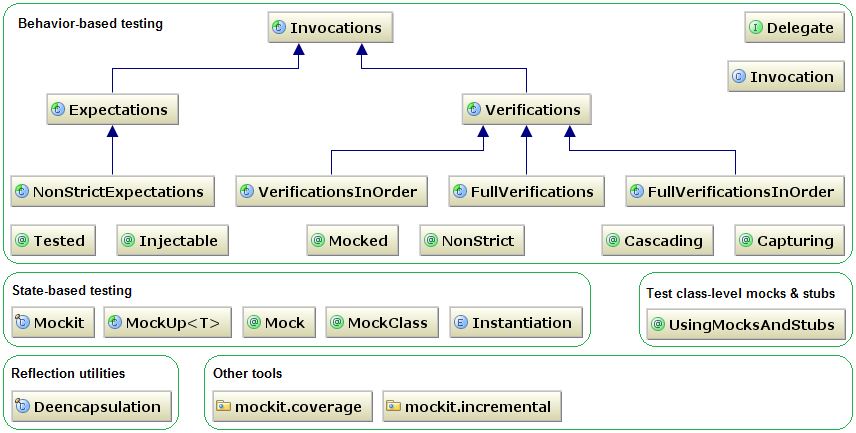
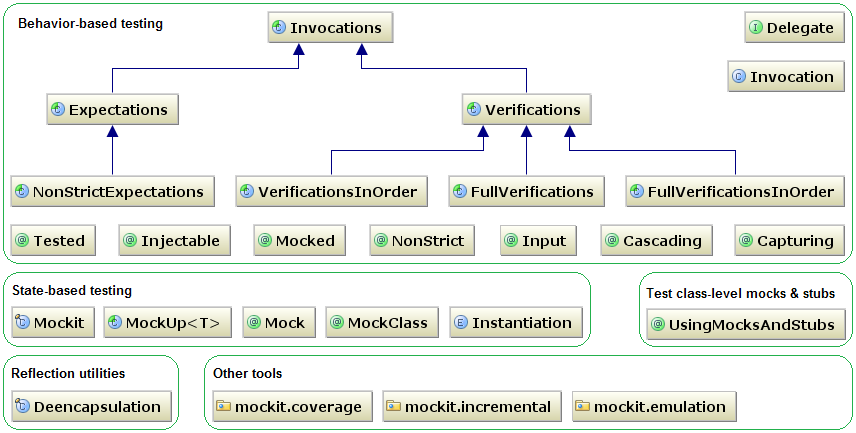
Updates API documentation and other pages with new "@Input" annotation.
git-svn-id: http://jmockit.googlecode.com/svn/trunk@1600 4d38ed0c-b8d3-11de-a71d-8f2b2e058ad8

Changed region(s): [[0.1215, 0.5104, 0.8505, 0.6005], [0.6682, 0.9007, 0.8808, 0.9908]]

diff --git a/www/javadoc/mockit/Input.html b/www/javadoc/mockit/Input.html
@@ -4,7 +4,7 @@
 <HEAD>
 <META http-equiv="Content-Type" content="text/html; charset=UTF-8">
 <TITLE>
-Injectable (JMockit Toolkit API Documentation)
+Input (JMockit Toolkit API Documentation)
 </TITLE>
 
 
@@ -14,7 +14,7 @@ Injectable (JMockit Toolkit API Documentation)
 function windowTitle()
 {
     if (location.href.indexOf('is-external=true') == -1) {
-        parent.document.title="Injectable (JMockit Toolkit API Documentation)";
+        parent.document.title="Input (JMockit Toolkit API Documentation)";
     }
 }
 </SCRIPT>
@@ -51,11 +51,11 @@ function windowTitle()
 
 <TR>
 <TD BGCOLOR="white" CLASS="NavBarCell2"><FONT SIZE="-2">
-&nbsp;<A HREF="../mockit/FullVerificationsInOrder.html" title="class in mockit"><B>PREV CLASS</B></A>&nbsp;
-&nbsp;<A HREF="../mockit/Input.html" title="annotation in mockit"><B>NEXT CLASS</B></A></FONT></TD>
+&nbsp;<A HREF="../mockit/Injectable.html" title="annotation in mockit"><B>PREV CLASS</B></A>&nbsp;
+&nbsp;<A HREF="../mockit/Instantiation.html" title="enum in mockit"><B>NEXT CLASS</B></A></FONT></TD>
 <TD BGCOLOR="white" CLASS="NavBarCell2"><FONT SIZE="-2">
-  <A HREF="../index.html?mockit/Injectable.html" target="_top"><B>FRAMES</B></A>  &nbsp;
-&nbsp;<A HREF="Injectable.html" target="_top"><B>NO FRAMES</B></A>  &nbsp;
+  <A HREF="../index.html?mockit/Input.html" target="_top"><B>FRAMES</B></A>  &nbsp;
+&nbsp;<A HREF="Input.html" target="_top"><B>NO FRAMES</B></A>  &nbsp;
 &nbsp;<SCRIPT type="text/javascript">
   <!--
   if(window==top) {
@@ -86,31 +86,22 @@ DETAIL:&nbsp;ELEMENT</FONT></TD>
 <FONT SIZE="-1">
 mockit</FONT>
 <BR>
-Annotation Type Injectable</H2>
+Annotation Type Input</H2>
 <HR>
 <DL>
-<DT><PRE><FONT SIZE="-1"><A HREF="http://download.oracle.com/javase/6/docs/api/java/lang/annotation/Documented.html?is-external=true" title="class or interface in java.lang.annotation">@Documented</A>
-<A HREF="http://download.oracle.com/javase/6/docs/api/java/lang/annotation/Retention.html?is-external=true" title="class or interface in java.lang.annotation">@Retention</A>(<A HREF="http://download.oracle.com/javase/6/docs/api/java/lang/annotation/Retention.html?is-external=true#value()" title="class or interface in java.lang.annotation">value</A>=<A HREF="http://download.oracle.com/javase/6/docs/api/java/lang/annotation/RetentionPolicy.html?is-external=true#RUNTIME" title="class or interface in java.lang.annotation">RUNTIME</A>)
-<A HREF="http://download.oracle.com/javase/6/docs/api/java/lang/annotation/Target.html?is-external=true" title="class or interface in java.lang.annotation">@Target</A>(<A HREF="http://download.oracle.com/javase/6/docs/api/java/lang/annotation/Target.html?is-external=true#value()" title="class or interface in java.lang.annotation">value</A>={<A HREF="http://download.oracle.com/javase/6/docs/api/java/lang/annotation/ElementType.html?is-external=true#FIELD" title="class or interface in java.lang.annotation">FIELD</A>,<A HREF="http://download.oracle.com/javase/6/docs/api/java/lang/annotation/ElementType.html?is-external=true#PARAMETER" title="class or interface in java.lang.annotation">PARAMETER</A>})
-</FONT>public @interface <B>Injectable</B></DL>
+<DT><PRE><FONT SIZE="-1"><A HREF="http://download.oracle.com/javase/6/docs/api/java/lang/annotation/Retention.html?is-external=true" title="class or interface in java.lang.annotation">@Retention</A>(<A HREF="http://download.oracle.com/javase/6/docs/api/java/lang/annotation/Retention.html?is-external=true#value()" title="class or interface in java.lang.annotation">value</A>=<A HREF="http://download.oracle.com/javase/6/docs/api/java/lang/annotation/RetentionPolicy.html?is-external=true#RUNTIME" title="class or interface in java.lang.annotation">RUNTIME</A>)
+<A HREF="http://download.oracle.com/javase/6/docs/api/java/lang/annotation/Target.html?is-external=true" title="class or interface in java.lang.annotation">@Target</A>(<A HREF="http://download.oracle.com/javase/6/docs/api/java/lang/annotation/Target.html?is-external=true#value()" title="class or interface in java.lang.annotation">value</A>=<A HREF="http://download.oracle.com/javase/6/docs/api/java/lang/annotation/ElementType.html?is-external=true#FIELD" title="class or interface in java.lang.annotation">FIELD</A>)
+</FONT>public @interface <B>Input</B></DL>
 </PRE>
 
 <P>
-Indicates an instance field of the test class or a parameter of the test method whose value will be an <em>injectable
- mocked instance</em>.
- Such instances can be said to be proper <em>mock objects</em>, in contrast to the <em>mocked instances</em> of a
- regular mocked type.
- The intent is that these mock objects will be passed/injected into the tested object/unit.
+Indicates an instance field holding either a default return value for a given return type, or a checked exception
+ instance to be thrown for a given checked exception type.
+ If the field is not explicitly assigned a value, then one will be created and assigned automatically, provided the
+ declared type of the field is a class having a public no-args constructor.
  <p/>
- The use of this annotation implies that the declared type of the mock field/parameter is a mocked type, just like it
- would be if annotated with <A HREF="../mockit/Mocked.html" title="annotation in mockit">@Mocked</A>.
- The <code>@Mocked</code> annotation can be applied at the same time, if needed.
- The default mocking behavior, however, is different in several ways.
- <p/>
- For the duration of each test where the mock field/parameter is in scope, <em>only one</em> injectable instance is
- mocked; other instances of the same mocked type are not affected.
- For an injectable mocked <em>class</em>, <em>static methods</em> and <em>constructors</em> are <em>not</em> mocked;
- only instance methods are. The static initializers of said classes are <em>not</em> stubbed out by default.
+ This annotation is only relevant inside expectation blocks, and only applies to mocked methods/constructors for which
+ no matching expectation is recorded.
 <P>
 
 <P>
@@ -146,11 +137,11 @@ Indicates an instance field of the test class or a parameter of the test method 
 
 <TR>
 <TD BGCOLOR="white" CLASS="NavBarCell2"><FONT SIZE="-2">
-&nbsp;<A HREF="../mockit/FullVerificationsInOrder.html" title="class in mockit"><B>PREV CLASS</B></A>&nbsp;
-&nbsp;<A HREF="../mockit/Input.html" title="annotation in mockit"><B>NEXT CLASS</B></A></FONT></TD>
+&nbsp;<A HREF="../mockit/Injectable.html" title="annotation in mockit"><B>PREV CLASS</B></A>&nbsp;
+&nbsp;<A HREF="../mockit/Instantiation.html" title="enum in mockit"><B>NEXT CLASS</B></A></FONT></TD>
 <TD BGCOLOR="white" CLASS="NavBarCell2"><FONT SIZE="-2">
-  <A HREF="../index.html?mockit/Injectable.html" target="_top"><B>FRAMES</B></A>  &nbsp;
-&nbsp;<A HREF="Injectable.html" target="_top"><B>NO FRAMES</B></A>  &nbsp;
+  <A HREF="../index.html?mockit/Input.html" target="_top"><B>FRAMES</B></A>  &nbsp;
+&nbsp;<A HREF="Input.html" target="_top"><B>NO FRAMES</B></A>  &nbsp;
 &nbsp;<SCRIPT type="text/javascript">
   <!--
   if(window==top) {

diff --git a/www/javadoc/mockit/Invocation.html b/www/javadoc/mockit/Invocation.html
@@ -99,8 +99,8 @@ Class Invocation</H2>
 <P>
 A context object representing the current invocation to a mocked method or constructor.
  <p/>
- When used as the type of the first parameter on a <A HREF="../mockit/Delegate.html" title="interface in mockit"><CODE>Delegate</CODE></A> method, all invocations to the
- delegate method will receive an appropriate instance.
+ When used as the type of the first parameter on a <A HREF="../mockit/Delegate.html" title="interface in mockit"><CODE>Delegate</CODE></A> method, all invocations to the delegate method
+ will receive an appropriate instance.
  Similarly, it can be used in the handler method of an instance assigned to the
  forEachInvocation field.
  <p/>
@@ -161,12 +161,19 @@ A context object representing the current invocation to a mocked method or const
 </TR>
 <TR BGCOLOR="white" CLASS="TableRowColor">
 <TD ALIGN="right" VALIGN="top" WIDTH="1%"><FONT SIZE="-1">
-<CODE>&nbsp;<A HREF="http://download.oracle.com/javase/6/docs/api/java/lang/Object.html?is-external=true" title="class or interface in java.lang">Object</A></CODE></FONT></TD>
+<CODE>
+<TABLE BORDER="0" CELLPADDING="0" CELLSPACING="0" SUMMARY="">
+<TR ALIGN="right" VALIGN="">
+<TD NOWRAP><FONT SIZE="-1">
+<CODE>&lt;T&gt; T</CODE></FONT></TD>
+</TR>
+</TABLE>
+</CODE></FONT></TD>
 <TD><CODE><B><A HREF="../mockit/Invocation.html#getInvokedInstance()">getInvokedInstance</A></B>()</CODE>
 
 <BR>
-&nbsp;&nbsp;&nbsp;&nbsp;&nbsp;&nbsp;&nbsp;&nbsp;&nbsp;&nbsp;Returns the target instance on which the current invocation was made, if any (if the method
- invoked is <code>static</code> then there is no instance and null is returned).</TD>
+&nbsp;&nbsp;&nbsp;&nbsp;&nbsp;&nbsp;&nbsp;&nbsp;&nbsp;&nbsp;Returns the target instance on which the current invocation was made, if any (if the method invoked is
+ <code>static</code> then there is no instance and null is returned).</TD>
 </TR>
 <TR BGCOLOR="white" CLASS="TableRowColor">
 <TD ALIGN="right" VALIGN="top" WIDTH="1%"><FONT SIZE="-1">
@@ -275,14 +282,13 @@ public final int <B>getInvocationIndex</B>()</PRE>
 <A NAME="getInvokedInstance()"><!-- --></A><H3>
 getInvokedInstance</H3>
 <PRE>
-public final <A HREF="http://download.oracle.com/javase/6/docs/api/java/lang/Object.html?is-external=true" title="class or interface in java.lang">Object</A> <B>getInvokedInstance</B>()</PRE>
+public final &lt;T&gt; T <B>getInvokedInstance</B>()</PRE>
 <DL>
-<DD>Returns the target instance on which the current invocation was made, if any (if the method
- invoked is <code>static</code> then there is no instance and null is returned).
+<DD>Returns the target instance on which the current invocation was made, if any (if the method invoked is
+ <code>static</code> then there is no instance and null is returned).
  <p/>
- Note that this instance can either be a mock instance (for example, the instance automatically
- created by JMockit and assigned to a mock field or passed as the argument value for a mock
- parameter), or a "real" instance created by code under test for a mocked type.
+ Note that this instance can either be the mocked instance originally created by JMockit and assigned to a mock
+ field or passed as a mock parameter, or an instance created by the code under test.
 <P>
 <DD><DL>
 </DL>
@@ -297,8 +303,8 @@ public final int <B>getMaxInvocations</B>()</PRE>
 <DL>
 <DD>Returns the maximum invocation count for the current expectation (-1 indicates unlimited).
  <p/>
- This call will return the value specified through the <CODE>Invocations.times</CODE> or
- <CODE>Invocations.maxTimes</CODE> field, if that was the case.
+ This call will return the value specified through the <CODE>Invocations.times</CODE> or <CODE>Invocations.maxTimes</CODE>
+ field, if that was the case.
 <P>
 <DD><DL>
 </DL>
@@ -313,8 +319,8 @@ public final int <B>getMinInvocations</B>()</PRE>
 <DL>
 <DD>Returns the minimum invocation count for the current expectation.
  <p/>
- This call will return the value specified through the <CODE>Invocations.times</CODE> or
- <CODE>Invocations.minTimes</CODE> field, if that was the case.
+ This call will return the value specified through the <CODE>Invocations.times</CODE> or <CODE>Invocations.minTimes</CODE>
+ field, if that was the case.
 <P>
 <DD><DL>
 </DL>
@@ -329,8 +335,8 @@ public final void <B>setMaxInvocations</B>(int&nbsp;maxInvocations)</PRE>
 <DL>
 <DD>Sets the maximum invocation count for the current expectation.
  <p/>
- This call can be used to override the value set on the <CODE>Invocations.times</CODE> or
- <CODE>Invocations.maxTimes</CODE> field.
+ This call can be used to override the value set on the <CODE>Invocations.times</CODE> or <CODE>Invocations.maxTimes</CODE>
+ field.
 <P>
 <DD><DL>
 </DL>
@@ -345,8 +351,8 @@ public final void <B>setMinInvocations</B>(int&nbsp;minInvocations)</PRE>
 <DL>
 <DD>Sets the minimum invocation count for the current expectation.
  <p/>
- This call can be used to override the value set on the <CODE>Invocations.times</CODE> or
- <CODE>Invocations.minTimes</CODE> field.
+ This call can be used to override the value set on the <CODE>Invocations.times</CODE> or <CODE>Invocations.minTimes</CODE>
+ field.
 <P>
 <DD><DL>
 </DL>

diff --git a/www/javadoc/overview-summary.html b/www/javadoc/overview-summary.html
@@ -131,13 +131,15 @@ JMockit: a Java toolkit for developer testing.
          title="A context object representing the current invocation to a mocked method or constructor.">
       <area shape="rect" coords="9,223,96,256" href="mockit/Tested.html"
          title="Indicates a class to be tested in isolation from selected dependencies.">
-      <area shape="rect" coords="115,223,229,256" href="mockit/Injectable.html"
+      <area shape="rect" coords="117,223,231,256" href="mockit/Injectable.html"
          title="Indicates an instance field of the test class or a parameter of the test method whose value will be an injectable mocked instance.">
-      <area shape="rect" coords="305,223,399,256" href="mockit/Mocked.html"
+      <area shape="rect" coords="252,223,346,256" href="mockit/Mocked.html"
          title="Indicates an instance field or test method parameter whose value will be a mocked instance.">
-      <area shape="rect" coords="418,223,525,256" href="mockit/NonStrict.html"
+      <area shape="rect" coords="368,223,475,256" href="mockit/NonStrict.html"
          title="For tests using Expectations, indicates a non-strict mocked type for an instance field or test method parameter.">
-      <area shape="rect" coords="600,223,714,256" href="mockit/Cascading.html"
+      <area shape="rect" coords="499,223,577,256" href="mockit/Input.html"
+         title="Indicates an instance field holding either a default return value for a given return type, or a checked exception instance to be thrown for a given checked exception type.">
+      <area shape="rect" coords="599,223,713,256" href="mockit/Cascading.html"
          title="Indicates a mocked type where the return types of non-void methods, excluding primitives, String, and collection types, will be mocked automatically if and when an invocation to the method occurs.">
       <area shape="rect" coords="733,223,845,256" href="mockit/Capturing.html"
          title="Indicates a test class, an instance field declared in a test class, or a test method parameter which will capture all implementations of a given base type (usually an interface or abstract class).">
@@ -149,7 +151,7 @@ JMockit: a Java toolkit for developer testing.
          title="A mock-up for a class or interface, to be used in state-based tests.">
       <area shape="rect" coords="241,305,316,338" href="mockit/Mock.html"
          title="Used inside a mock class to indicate a mock method or mock constructor, with optional expectations on the number of invocations while the mock is in effect.">
-      <area shape="rect" coords="324,305,409,338" href="mockit/MockClass.html"
+      <area shape="rect" coords="324,305,439,338" href="mockit/MockClass.html"
          title="Indicates a mock class containing one or more mock methods/constructors, each one of them properly indicated as such.">
       <area shape="rect" coords="448,305,583,338" href="mockit/Instantiation.html"
          title="Defines the lifetime of the instances automatically created for a mock class.">

diff --git a/www/javadoc/overview.html b/www/javadoc/overview.html
@@ -30,13 +30,15 @@
          title="A context object representing the current invocation to a mocked method or constructor.">
       <area shape="rect" coords="9,223,96,256" href="mockit/Tested.html"
          title="Indicates a class to be tested in isolation from selected dependencies.">
-      <area shape="rect" coords="115,223,229,256" href="mockit/Injectable.html"
+      <area shape="rect" coords="117,223,231,256" href="mockit/Injectable.html"
          title="Indicates an instance field of the test class or a parameter of the test method whose value will be an injectable mocked instance.">
-      <area shape="rect" coords="305,223,399,256" href="mockit/Mocked.html"
+      <area shape="rect" coords="252,223,346,256" href="mockit/Mocked.html"
          title="Indicates an instance field or test method parameter whose value will be a mocked instance.">
-      <area shape="rect" coords="418,223,525,256" href="mockit/NonStrict.html"
+      <area shape="rect" coords="368,223,475,256" href="mockit/NonStrict.html"
          title="For tests using Expectations, indicates a non-strict mocked type for an instance field or test method parameter.">
-      <area shape="rect" coords="600,223,714,256" href="mockit/Cascading.html"
+      <area shape="rect" coords="499,223,577,256" href="mockit/Input.html"
+         title="Indicates an instance field holding either a default return value for a given return type, or a checked exception instance to be thrown for a given checked exception type.">
+      <area shape="rect" coords="599,223,713,256" href="mockit/Cascading.html"
          title="Indicates a mocked type where the return types of non-void methods, excluding primitives, String, and collection types, will be mocked automatically if and when an invocation to the method occurs.">
       <area shape="rect" coords="733,223,845,256" href="mockit/Capturing.html"
          title="Indicates a test class, an instance field declared in a test class, or a test method parameter which will capture all implementations of a given base type (usually an interface or abstract class).">
@@ -48,7 +50,7 @@
          title="A mock-up for a class or interface, to be used in state-based tests.">
       <area shape="rect" coords="241,305,316,338" href="mockit/Mock.html"
          title="Used inside a mock class to indicate a mock method or mock constructor, with optional expectations on the number of invocations while the mock is in effect.">
-      <area shape="rect" coords="324,305,409,338" href="mockit/MockClass.html"
+      <area shape="rect" coords="324,305,439,338" href="mockit/MockClass.html"
          title="Indicates a mock class containing one or more mock methods/constructors, each one of them properly indicated as such.">
       <area shape="rect" coords="448,305,583,338" href="mockit/Instantiation.html"
          title="Defines the lifetime of the instances automatically created for a mock class.">

diff --git a/www/about.html b/www/about.html
@@ -54,17 +54,18 @@
       <area shape="rect" coords="743,10,845,43" href="javadoc/mockit/Delegate.html">
       <area shape="rect" coords="726,59,845,92" href="javadoc/mockit/Invocation.html">
       <area shape="rect" coords="9,223,96,256" href="javadoc/mockit/Tested.html">
-      <area shape="rect" coords="115,223,229,256" href="javadoc/mockit/Injectable.html">
-      <area shape="rect" coords="305,223,399,256" href="javadoc/mockit/Mocked.html">
-      <area shape="rect" coords="418,223,525,256" href="javadoc/mockit/NonStrict.html">
-      <area shape="rect" coords="600,223,714,256" href="javadoc/mockit/Cascading.html">
+      <area shape="rect" coords="117,223,231,256" href="javadoc/mockit/Injectable.html">
+      <area shape="rect" coords="252,223,346,256" href="javadoc/mockit/Mocked.html">
+      <area shape="rect" coords="368,223,475,256" href="javadoc/mockit/NonStrict.html">
+      <area shape="rect" coords="499,223,577,256" href="javadoc/mockit/Input.html">
+      <area shape="rect" coords="599,223,713,256" href="javadoc/mockit/Cascading.html">
       <area shape="rect" coords="733,223,845,256" href="javadoc/mockit/Capturing.html">
 
       <area shape="rect" coords="10,282,133,300" href="tutorial/StateBasedTesting.html">
       <area shape="rect" coords="10,305,95,338" href="javadoc/mockit/Mockit.html">
       <area shape="rect" coords="102,305,232,338" href="javadoc/mockit/MockUp.html">
       <area shape="rect" coords="241,305,316,338" href="javadoc/mockit/Mock.html">
-      <area shape="rect" coords="324,305,409,338" href="javadoc/mockit/MockClass.html">
+      <area shape="rect" coords="324,305,439,338" href="javadoc/mockit/MockClass.html">
       <area shape="rect" coords="448,305,583,338" href="javadoc/mockit/Instantiation.html">
 
       <area shape="rect" coords="9,365,127,381" href="tutorial/ReflectionUtilities.html">

diff --git a/www/javadoc/mockit/Instantiation.html b/www/javadoc/mockit/Instantiation.html
@@ -51,7 +51,7 @@ function windowTitle()
 
 <TR>
 <TD BGCOLOR="white" CLASS="NavBarCell2"><FONT SIZE="-2">
-&nbsp;<A HREF="../mockit/Injectable.html" title="annotation in mockit"><B>PREV CLASS</B></A>&nbsp;
+&nbsp;<A HREF="../mockit/Input.html" title="annotation in mockit"><B>PREV CLASS</B></A>&nbsp;
 &nbsp;<A HREF="../mockit/Invocation.html" title="class in mockit"><B>NEXT CLASS</B></A></FONT></TD>
 <TD BGCOLOR="white" CLASS="NavBarCell2"><FONT SIZE="-2">
   <A HREF="../index.html?mockit/Instantiation.html" target="_top"><B>FRAMES</B></A>  &nbsp;
@@ -332,7 +332,7 @@ the order they are declared</DL>
 
 <TR>
 <TD BGCOLOR="white" CLASS="NavBarCell2"><FONT SIZE="-2">
-&nbsp;<A HREF="../mockit/Injectable.html" title="annotation in mockit"><B>PREV CLASS</B></A>&nbsp;
+&nbsp;<A HREF="../mockit/Input.html" title="annotation in mockit"><B>PREV CLASS</B></A>&nbsp;
 &nbsp;<A HREF="../mockit/Invocation.html" title="class in mockit"><B>NEXT CLASS</B></A></FONT></TD>
 <TD BGCOLOR="white" CLASS="NavBarCell2"><FONT SIZE="-2">
   <A HREF="../index.html?mockit/Instantiation.html" target="_top"><B>FRAMES</B></A>  &nbsp;

diff --git a/www/tutorial/BehaviorBasedTesting.html b/www/tutorial/BehaviorBasedTesting.html
@@ -524,8 +524,7 @@ public final class MultiMocksTest<strong>&lt;MultiMock extends Dependency & Runn
    expectation.
    In the case of recording multiple consecutive return values for a given expectation, a single call to the
    <code>returns(Object, Object...)</code> method can be made to specify more than one return value.
-   This is the only situation where the <code>result</code> field cannot be used; note that this <code>returns</code>
-   method is an overload which takes a <em>varargs</em> argument for consecutive values after the first one.
+   The <code>result</code> field can also be used, by assigning it a list or array of the consecutive values.
    For more details about this ability, see the corresponding
    <a href="../javadoc/mockit/Expectations.html#returns(java.lang.Object, java.lang.Object...)">API documentation</a>.
 </p>

diff --git a/www/javadoc/mockit/VerificationsInOrder.html b/www/javadoc/mockit/VerificationsInOrder.html
@@ -1120,8 +1120,9 @@ protected final void <B>verifiedInvocations</B>(<A HREF="../mockit/Verifications
  verified in a previous verification block.
 <P>
 <DD><DL>
-<DT><B>See Also:</B><DD><A HREF="../mockit/VerificationsInOrder.html#unverifiedInvocations()"><CODE>unverifiedInvocations()</CODE></A>, 
-<a href="http://jmockit.googlecode.com/svn/trunk/www/tutorial/BehaviorBasedTesting.html#partiallyOrdered">In the Tutorial</a></DL>
+<DT><B>Parameters:</B><DD><CODE>alreadyVerified</CODE> - a verification block describing the group of already verified invocations<DT><B>See Also:</B><DD><A HREF="../mockit/VerificationsInOrder.html#unverifiedInvocations()"><CODE>unverifiedInvocations()</CODE></A>, 
+<a href="http://jmockit.googlecode.com/svn/trunk/www/tutorial/BehaviorBasedTesting.html#partiallyOrdered">In
+ the Tutorial</a></DL>
 </DD>
 </DL>
 <HR>

diff --git a/www/javadoc/mockit/package-summary.html b/www/javadoc/mockit/package-summary.html
@@ -196,6 +196,11 @@ Provides the classes and annotations used when writing tests with the JMockit mo
  mocked instance</em>.</TD>
 </TR>
 <TR BGCOLOR="white" CLASS="TableRowColor">
+<TD WIDTH="15%"><B><A HREF="../mockit/Input.html" title="annotation in mockit">Input</A></B></TD>
+<TD>Indicates an instance field holding either a default return value for a given return type, or a checked exception
+ instance to be thrown for a given checked exception type.</TD>
+</TR>
+<TR BGCOLOR="white" CLASS="TableRowColor">
 <TD WIDTH="15%"><B><A HREF="../mockit/Mock.html" title="annotation in mockit">Mock</A></B></TD>
 <TD>Used inside a <em>mock class</em> to indicate a <em>mock method</em>, with optional <em>expectations</em> on the
  number of invocations while the mock is in effect.</TD>

diff --git a/www/javadoc/allclasses-frame.html b/www/javadoc/allclasses-frame.html
@@ -40,6 +40,8 @@ All Classes (JMockit Toolkit API Documentation)
 <BR>
 <A HREF="mockit/Injectable.html" title="annotation in mockit" target="classFrame">Injectable</A>
 <BR>
+<A HREF="mockit/Input.html" title="annotation in mockit" target="classFrame">Input</A>
+<BR>
 <A HREF="mockit/Instantiation.html" title="enum in mockit" target="classFrame">Instantiation</A>
 <BR>
 <A HREF="mockit/Invocation.html" title="class in mockit" target="classFrame">Invocation</A>

diff --git a/www/javadoc/mockit/package-frame.html b/www/javadoc/mockit/package-frame.html
@@ -79,6 +79,8 @@ Annotation Types</FONT>&nbsp;
 <BR>
 <A HREF="Injectable.html" title="annotation in mockit" target="classFrame">Injectable</A>
 <BR>
+<A HREF="Input.html" title="annotation in mockit" target="classFrame">Input</A>
+<BR>
 <A HREF="Mock.html" title="annotation in mockit" target="classFrame">Mock</A>
 <BR>
 <A HREF="MockClass.html" title="annotation in mockit" target="classFrame">MockClass</A>

diff --git a/www/javadoc/allclasses-noframe.html b/www/javadoc/allclasses-noframe.html
@@ -40,6 +40,8 @@ All Classes (JMockit Toolkit API Documentation)
 <BR>
 <A HREF="mockit/Injectable.html" title="annotation in mockit">Injectable</A>
 <BR>
+<A HREF="mockit/Input.html" title="annotation in mockit">Input</A>
+<BR>
 <A HREF="mockit/Instantiation.html" title="enum in mockit">Instantiation</A>
 <BR>
 <A HREF="mockit/Invocation.html" title="class in mockit">Invocation</A>
